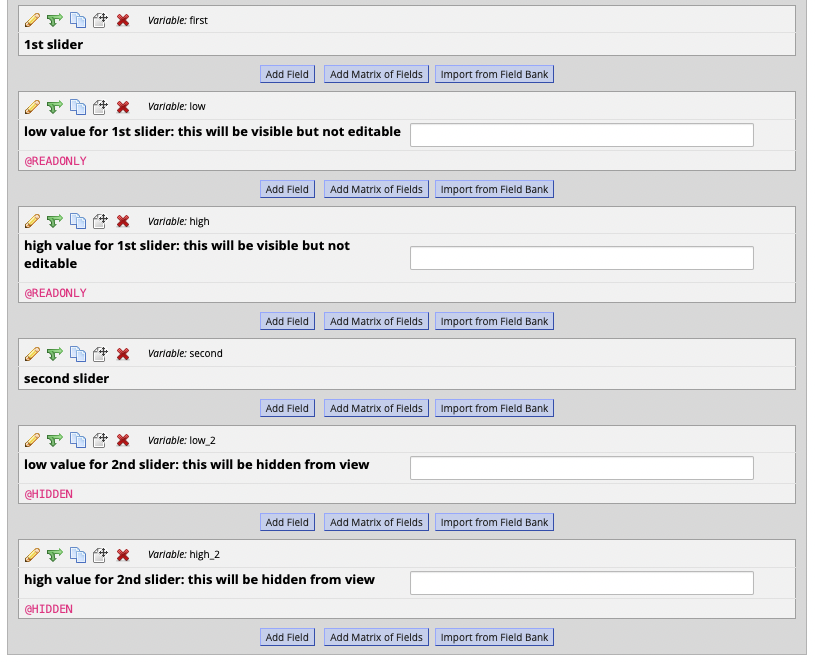
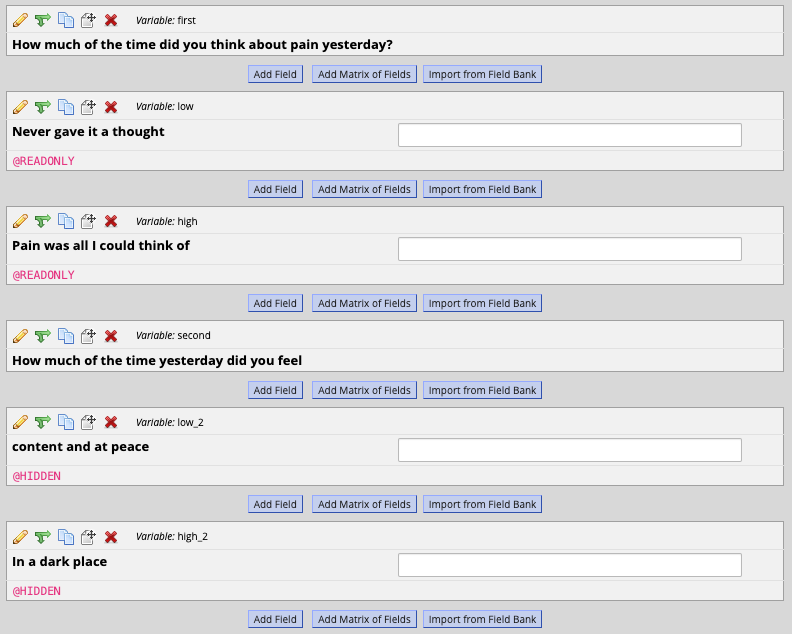
docs: updates docs to reflect client changes implmented until this point

Changed region(s): [[0.0, 0.0, 1.0, 1.0], [0.5152, 0.3596, 0.9394, 0.4196]]

diff --git a/README.md b/README.md
@@ -4,11 +4,11 @@
 
 This REDCap external module provides a packaged way to render [`bootstrap-slider`](https://github.com/seiyria/bootstrap-slider) within REDCap data entry forms and surveys.
 
-The current version only renders [the third slider from Example 12](https://seiyria.com/bootstrap-slider/#example-12), with hardcoded colors, slider sizes, and slider values.
+The current version only renders [the third slider from Example 12](https://seiyria.com/bootstrap-slider/#example-12), with hardcoded colors and slider sizes.
 
-Colors on the slider are in this order: red, yellow, and blue.
+Colors on the slider are in this order: blue, yellow, and red.
 
-The slider can store two values, ranging between 0 and 100.
+Users have the option to select minimum and maximum values from a dropdown. The default minimum value is 0, and the default maximum value is 100. The slider can store two values, ranging between the selected minimum and maximum.
 
 ## How to use
 
@@ -19,7 +19,9 @@ In order to render a slider, a data entry form or survey must have three fields:
 
 ![screenshot of online designer configuration](img/designer-config.png)
 
-The text fields must use the @HIDDEN action tag, or they will appear on the data entry form/survey and be editable. Alternatively, if you want the values to be visible but not editable, you can use the @READONLY action tag for the text fields. 
+**The text fields must use the @HIDDEN action tag, or they will appear on the data entry form/survey and be editable. Alternatively, if you want the values to be visible but not editable, you can use the @READONLY action tag for the text fields.**
+
+**The labels from the text fields will be used as the selection text for the slider, appearing underneath the slider in their respective colors. Make sure to use the labels that you want appearing as options on the slider.**
 
 The module currently does not have the ability to show the value selected directly on the slider.
 
@@ -31,11 +33,12 @@ Here is what a configuration should look like:
 1. Location of Slider
   1. Descriptive text field to place slider: field 1 from above
   1. Left (low value) data point for this slider: field 2 from above
-  1. Text to show on left (low value) side of slider: any text
+  1. Minimum value for left data point: default will be 0, but other options available
   1. Right (high value) data point for this slider: field 3 from above
-  1. Text to show on right (high value) side of slider: any text
+  1. Maximum value for right data point: default will be 100, but other options available
 
 
 ## Changelog
 
+**2022/07/27**: implements changes in color order, configurable minimum & maximum values, now extracts slider labels from configured text field
 **2022/07/12**: 1st working version
